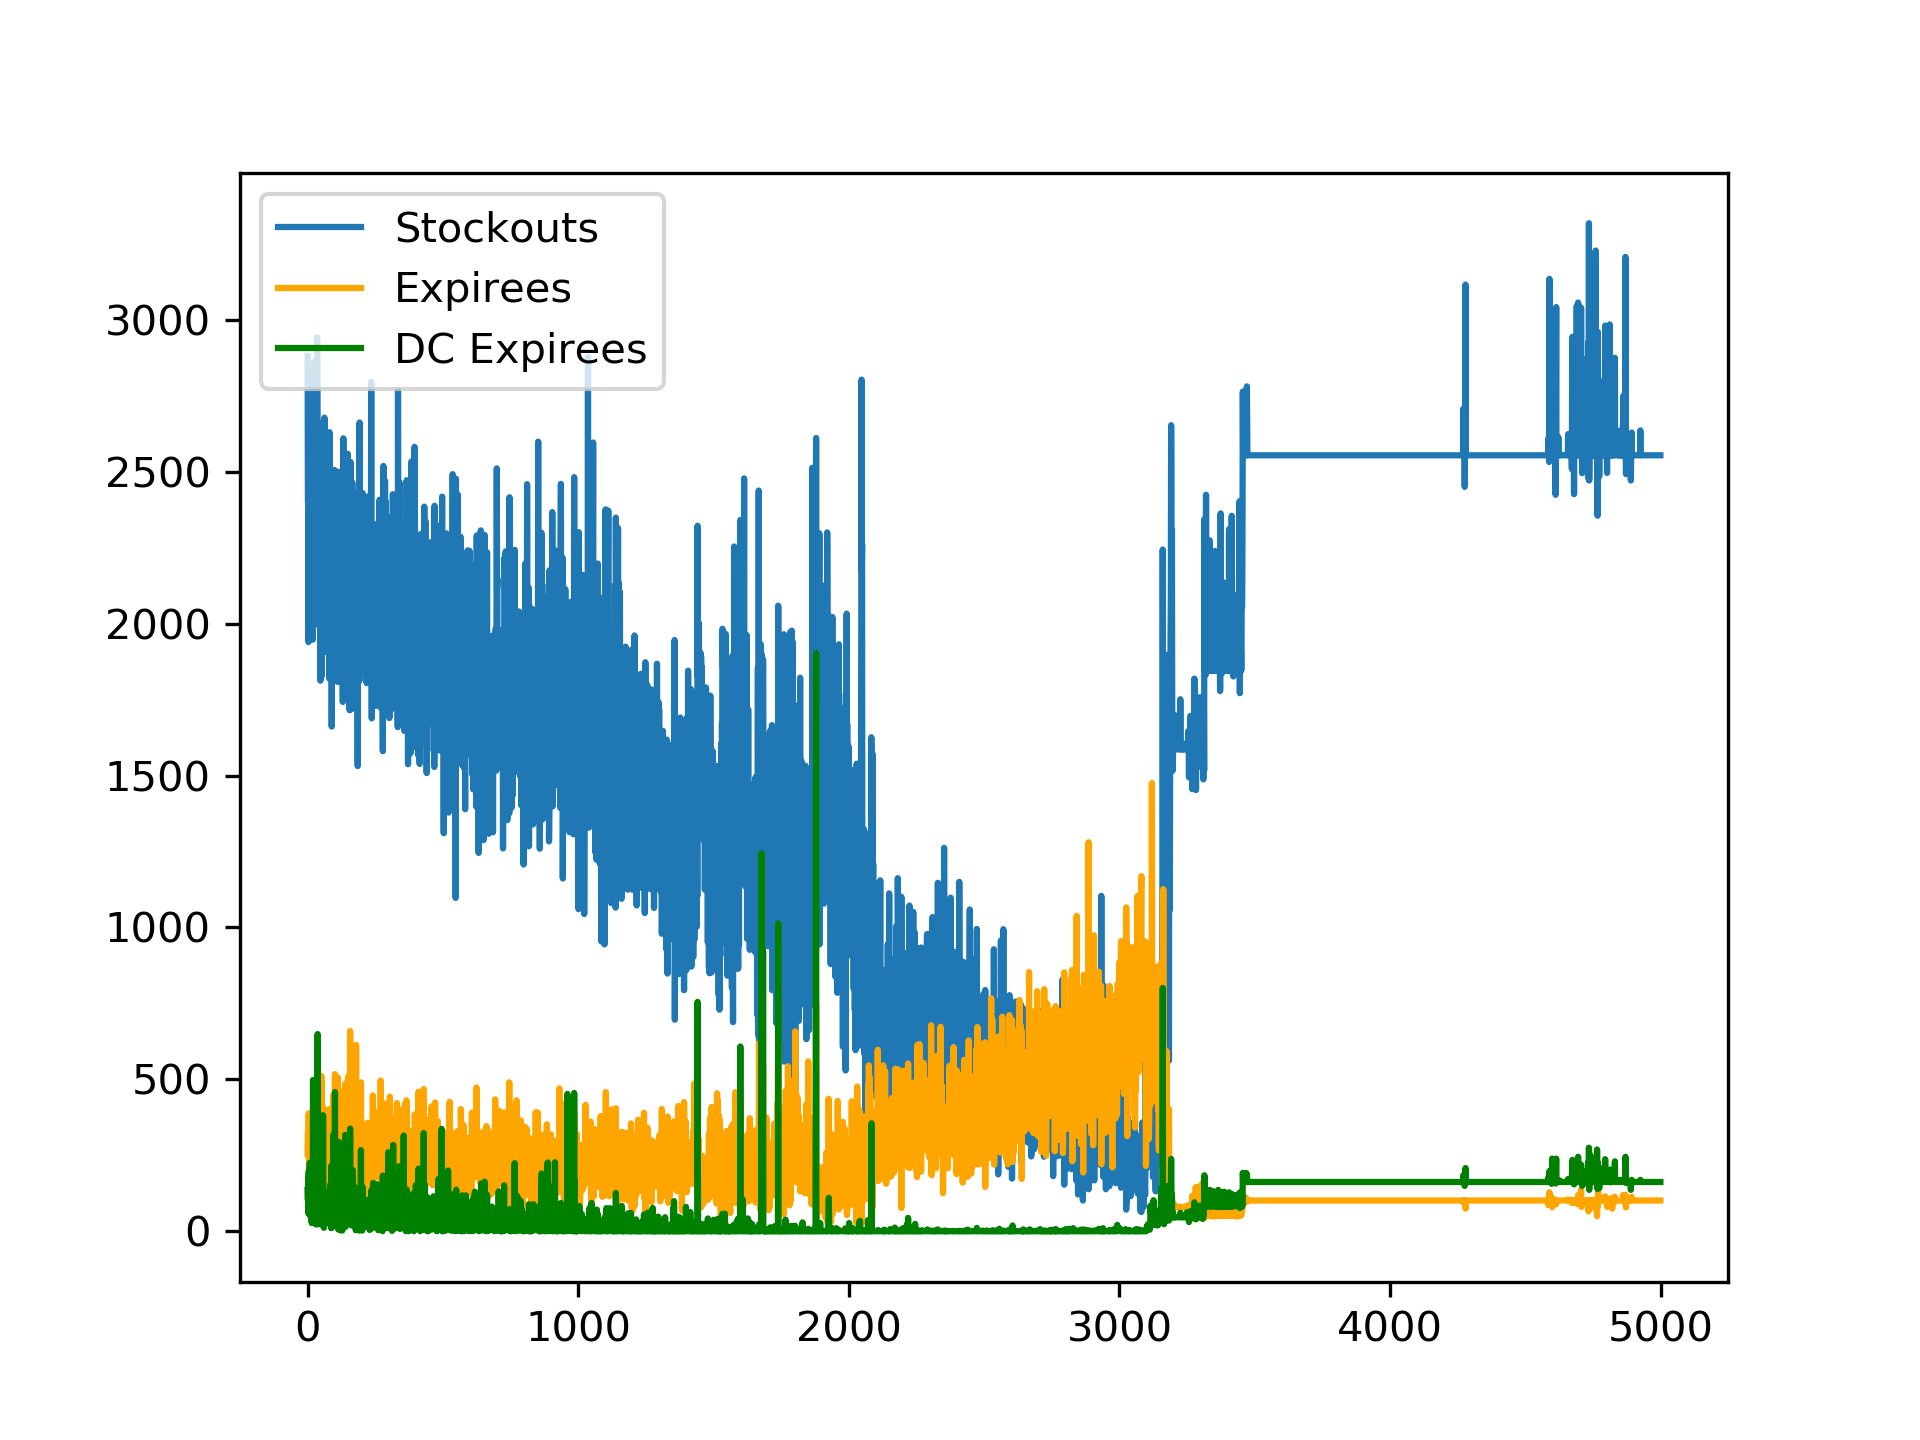
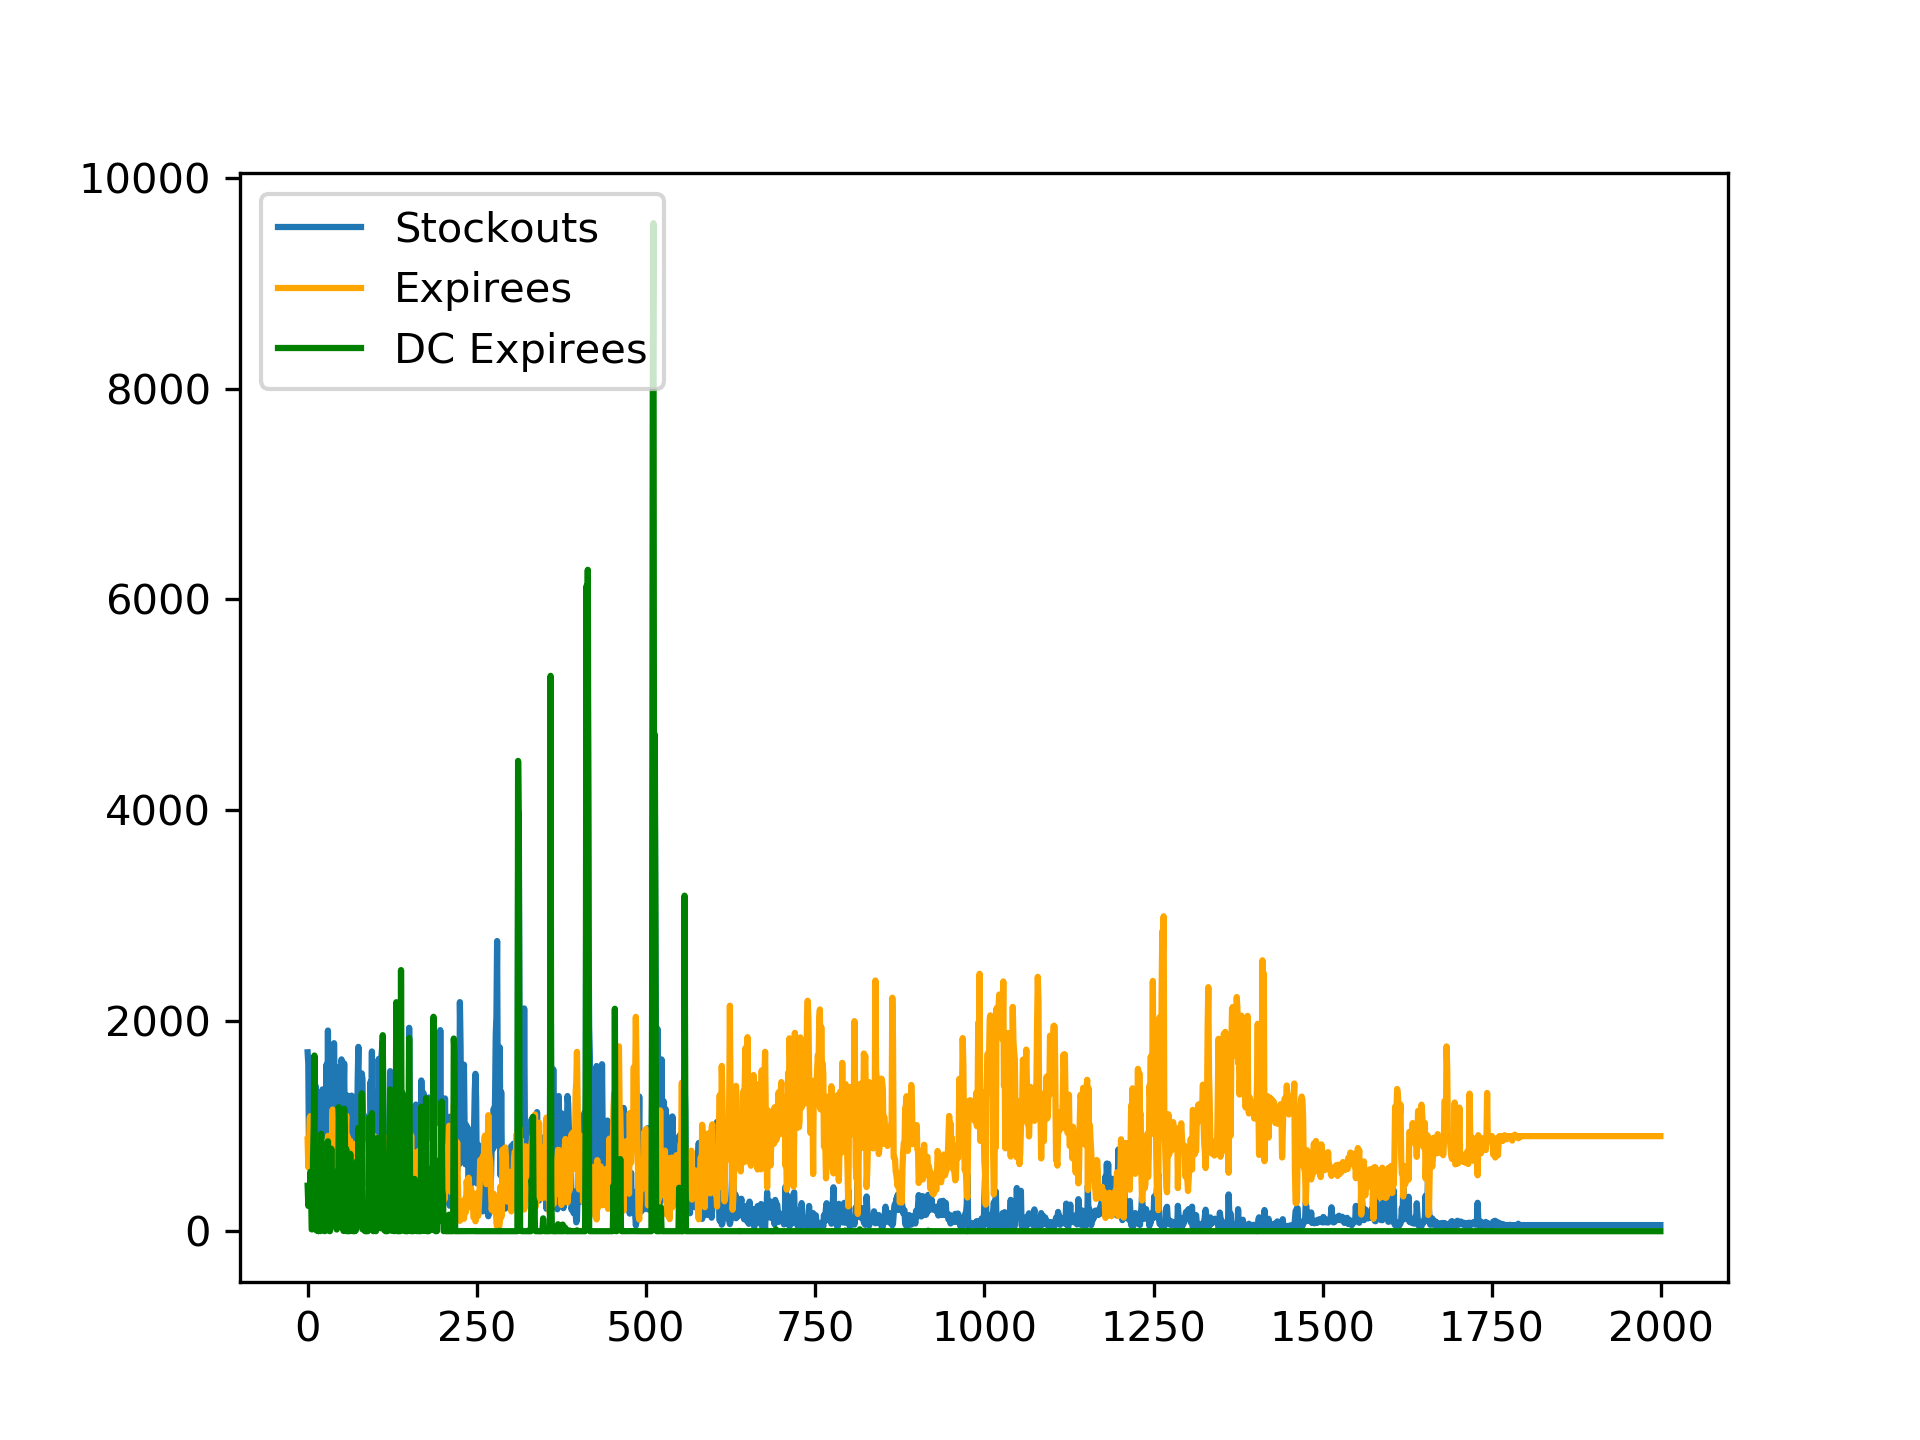
=Model donors are now fixed to 100 e100 everyday

diff --git a/VMIwithDRL/src/implementation/VMImodel.py b/VMIwithDRL/src/implementation/VMImodel.py
@@ -1,7 +1,7 @@
 from implementation.hospital import Hospital
 import numpy as np
-from implementation.optimizer.AllocationOptimizerHeuristica import AllocationOptimizer
-#from implementation.optimizer.AllocationOptimizerGoalProgramming3 import AllocationOptimizer
+#from implementation.optimizer.AllocationOptimizerHeuristica import AllocationOptimizer
+from implementation.optimizer.AllocationOptimizerGoalProgramming3 import AllocationOptimizer
 
 from agent_model.model import Model
 # from optimizer.AllocationOptimizerCplexDocPlex import AllocationOptimizer
@@ -33,7 +33,8 @@ class VMI(Model):
         demand_data = self.demands_and_donors.iloc[self.year_day]
         self.year_day += 1
 
-        donors = demand_data["donors"]
+        #donors = demand_data["donors"]
+        donors=100
         # self.get_donors(state[5])
         demands = [demand_data["d1"], demand_data["d2"], demand_data["d3"], demand_data["d4"]]
         # self.get_demand(state[5])
@@ -60,7 +61,6 @@ class VMI(Model):
 
         # opt = AllocationOptimizer(II, A_i, demands, self.exp_cost, self.stockout_cost, self.shelf_life, len(self.hospitals))
         rep, used_model = opt.allocate()
-
         # print(rep)
         reward = 0
         rewards = []

diff --git a/VMIwithDRL/src/agent_model/training_agent_torch3.py b/VMIwithDRL/src/agent_model/training_agent_torch3.py
@@ -14,6 +14,7 @@ import os
 from statistics import mean
 import pandas as pd
 import matplotlib.pyplot as plt
+import time
 
 
 class NN(nn.Module):
@@ -77,6 +78,7 @@ class TrainingAgent:
         avg_q_val = {}
         run_rewards = []
         for run in range(self.runs):
+            start_time=time.time()
             total_reward = 0
 
             epsilon = self.epsilon_function(run)
@@ -124,7 +126,8 @@ class TrainingAgent:
                 if self.step_per_run is not None and run_step_count >= self.step_per_run:
                     terminate = True
             run_rewards.append(total_reward)
-            print(run, ":", total_reward, ":", epsilon)
+            exec_time=time.time()-start_time
+            print("Run: ",run, "Reward: ", total_reward, "Epsilon: ", epsilon ,"ETA: ",exec_time*(self.runs-run-1))
         #         style.use("ggplot")
         #         pyplot.scatter(range(0, len(run_rewards)), run_rewards)
         #         pyplot.xlabel("Run")

diff --git a/VMIwithDRL/src/test_script.py b/VMIwithDRL/src/test_script.py
@@ -63,8 +63,8 @@ def test(args):
     # print(tensorflow.test.is_gpu_available())
     
     model = VMI(4, 100, 5, initial_state, 5, 100)
-    agent = TrainingAgent(model=model, runs=train_runs, steps_per_run=365, batch_size=500, memory=3500, use_gpu=True,
-                          epsilon_function='linear', min_epsilon=0, epsilon_min_percentage=0.4)
+    agent = TrainingAgent(model=model, runs=train_runs, steps_per_run=365, batch_size=32, memory=1825, use_gpu=True,
+                          epsilon_function='log', min_epsilon=0, epsilon_min_percentage=0.1)
     rewards = agent.run()
     log = model.log
     expirees = []

diff --git a/VMIwithDRL/src/implementation/optimizer/AllocationOptimizerGoalProgramming3.py b/VMIwithDRL/src/implementation/optimizer/AllocationOptimizerGoalProgramming3.py
@@ -156,6 +156,7 @@ class AllocationOptimizer():
             return a, True
 
         except Exception as e:
+            print(e)
             # logging.exception("An exception was thrown!")
             #             for r in range(5):
             #                 for h in range(4):
